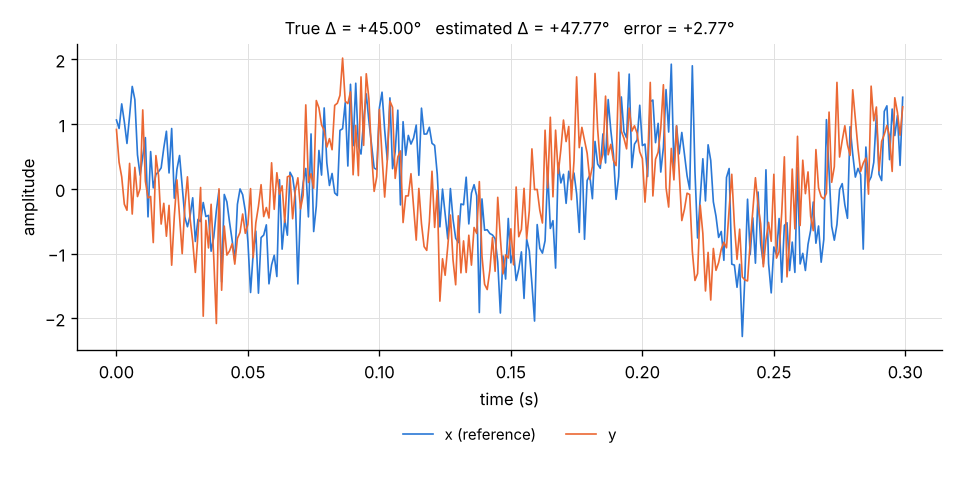
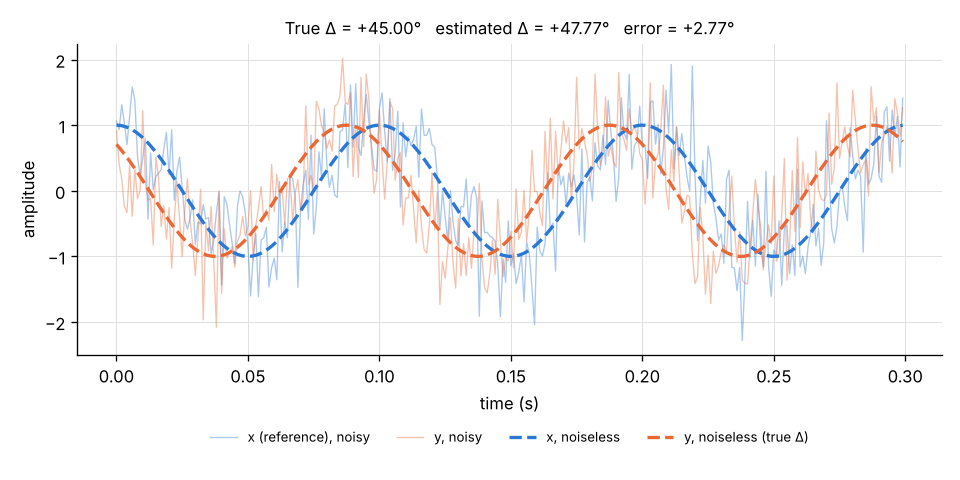
Address code review: overflow fix, mean removal, tests, docs, plot
- Estimate phase as wrap(angle(Z_y) - angle(Z_x)) instead of
  angle(Z_y * conj(Z_x)), which overflowed for very large signals and
  returned nan or wrong finite values. Regression tests added.
- Subtract each signal's record mean before projection so large DC
  offsets are no longer rejected as undefined; documented.
- Add tests for previously untested rejection paths, wrap_deg arrays,
  and exact noise-draw order; narrow the README coverage claim.
- Document the +/-180 boundary behaviour; fix the README plot note.
- Plot: overlay dashed noiseless signals; regenerated phase_demo.png.

Claude-Session: https://claude.ai/code/session_01MhUJCrXfypvmw1afCNMHFF

Changed region(s): [[0.0, 0.125, 0.9688, 0.6875], [0.0625, 0.7188, 1.0, 0.9375], [0.25, 0.9062, 0.375, 0.9375]]

diff --git a/test_phase_analysis.py b/test_phase_analysis.py
@@ -39,6 +39,14 @@ def test_wrap_deg_hard_coded(angle, expected):
     assert wrap_deg(angle) == expected
 
 
+def test_wrap_deg_array():
+    angles = np.array([-180.0, 180.0, 270.0, 0.0, 360.0, 190.0, -190.0, 540.0])
+    expected = np.array([180.0, 180.0, -90.0, 0.0, 0.0, -170.0, 170.0, 180.0])
+    out = wrap_deg(angles)
+    assert isinstance(out, np.ndarray)
+    assert np.array_equal(out, expected)
+
+
 @pytest.mark.parametrize("estimate, truth, expected", [(-179, 179, 2), (179, -179, -2)])
 def test_signed_circular_error(estimate, truth, expected):
     assert circular_error_deg(estimate, truth) == expected
@@ -63,6 +71,30 @@ def test_sign_independent_of_make_signals():
     assert abs(circular_error_deg(est, 90.0)) <= TOL_DEG
 
 
+@pytest.mark.parametrize("amplitude", [1e152, 1e160])
+@pytest.mark.parametrize("true_deg", [30.0, -120.0])
+def test_regression_large_amplitude_no_overflow(amplitude, true_deg):
+    # Regression (review #1): angle(z_y * conj(z_x)) overflowed, giving nan at
+    # 1e160 and wrong finite values (45, -135) at 1e152.
+    _, x, y = make_signals(F, FS, T, amplitude, true_deg, sigma=0.0)
+    est = estimate_phase_difference(x, y, F, FS)
+    assert abs(circular_error_deg(est, true_deg)) <= TOL_DEG
+
+
+@pytest.mark.parametrize("dc", [1e10, 1e11])
+def test_large_dc_offset_accepted_after_mean_removal(dc):
+    # Review #2: before mean removal these were rejected as "undefined".
+    # Tolerance is a rounding bound, not 1e-8: storing dc + cos and removing
+    # the mean perturbs each sample by up to ~1 ulp(dc), so |dZ| <= N*ulp and
+    # each phase moves by <= 2*ulp/A rad; the difference by <= 4*ulp/A rad.
+    t = np.arange(int(FS * T)) / FS
+    x = dc + A * np.cos(2 * np.pi * F * t)
+    y = dc + A * np.cos(2 * np.pi * F * t + np.deg2rad(45.0))
+    tol_deg = math.degrees(4 * np.spacing(dc) / A)
+    est = estimate_phase_difference(x, y, F, FS)
+    assert abs(circular_error_deg(est, 45.0)) <= tol_deg
+
+
 @pytest.mark.parametrize("a, b", [(270.0, -90.0), (190.0, -170.0), (180.0, -180.0)])
 def test_wrap_equivalent_inputs(a, b):
     est_a, est_b = noiseless_estimate(a), noiseless_estimate(b)
@@ -74,19 +106,30 @@ def test_wrap_equivalent_inputs(a, b):
 # ---------------------------------------------------------------- rejections
 
 
-def test_rejects_zero_signal():
+@pytest.mark.parametrize("side", ["x", "y"])
+def test_rejects_zero_signal(side):
+    _, sig, _ = make_signals(F, FS, T, A, 0.0, sigma=0.0)
+    args = (np.zeros_like(sig), sig) if side == "x" else (sig, np.zeros_like(sig))
+    with pytest.raises(ValueError, match=f"phase of {side} is undefined"):
+        estimate_phase_difference(*args, F, FS)
+
+
+def test_rejects_constant_signal():
+    # A pure DC signal has no component at f once its mean is removed.
     _, x, _ = make_signals(F, FS, T, A, 0.0, sigma=0.0)
-    with pytest.raises(ValueError, match="undefined"):
-        estimate_phase_difference(x, np.zeros_like(x), F, FS)
+    with pytest.raises(ValueError, match="phase of y is undefined"):
+        estimate_phase_difference(x, np.full_like(x, 5.0), F, FS)
 
 
-def test_rejects_signal_with_no_component_at_f():
+@pytest.mark.parametrize("side", ["x", "y"])
+def test_rejects_signal_with_no_component_at_f(side):
     # Scale-aware check: a pure 2f sinusoid projects to ~0 at f.
     t = np.arange(int(FS * T)) / FS
-    x = np.cos(2 * np.pi * F * t)
-    y = np.cos(2 * np.pi * 2 * F * t)
-    with pytest.raises(ValueError, match="undefined"):
-        estimate_phase_difference(x, y, F, FS)
+    at_f = np.cos(2 * np.pi * F * t)
+    at_2f = np.cos(2 * np.pi * 2 * F * t)
+    args = (at_2f, at_f) if side == "x" else (at_f, at_2f)
+    with pytest.raises(ValueError, match=f"phase of {side} is undefined"):
+        estimate_phase_difference(*args, F, FS)
 
 
 def test_rejects_non_integer_sample_count():
@@ -143,11 +186,36 @@ def test_rejects_bad_parameters(kwargs, match):
         make_signals(**params)
 
 
-def test_rejects_non_finite_signal_values():
+@pytest.mark.parametrize("side", ["x", "y"])
+@pytest.mark.parametrize("bad", [np.nan, np.inf])
+def test_rejects_non_finite_signal_values(side, bad):
     _, x, y = make_signals(F, FS, T, A, 0.0, sigma=0.0)
-    x[5] = np.nan
-    with pytest.raises(ValueError, match="non-finite"):
+    (x if side == "x" else y)[5] = bad
+    with pytest.raises(ValueError, match=f"{side} contains non-finite"):
         estimate_phase_difference(x, y, F, FS)
+
+
+def test_rejects_2d_signal():
+    _, x, y = make_signals(F, FS, T, A, 0.0, sigma=0.0)
+    with pytest.raises(ValueError, match="1-D"):
+        estimate_phase_difference(x.reshape(2, -1), y.reshape(2, -1), F, FS)
+
+
+@pytest.mark.parametrize(
+    "f, fs, match",
+    [
+        (0.0, FS, "0 < f < fs/2"),
+        (FS / 2, FS, "0 < f < fs/2"),
+        (F, 0.0, "fs must be > 0"),
+        (F, -FS, "fs must be > 0"),
+        (10.25, FS, "not an integer"),
+        (math.nan, FS, "finite"),
+    ],
+)
+def test_estimator_rejects_bad_frequency_or_fs_directly(f, fs, match):
+    _, x, y = make_signals(F, FS, T, A, 0.0, sigma=0.0)
+    with pytest.raises(ValueError, match=match):
+        estimate_phase_difference(x, y, f, fs)
 
 
 def test_rejects_mismatched_lengths():
@@ -171,9 +239,11 @@ def test_seeded_noisy_example_reproducible_and_broadly_accurate():
     t2, x2, y2 = make_signals(F, FS, T, A, true_deg, sigma=sigma, seed=0)
     # Reproducibility: exact equality, claimed only within the same environment.
     assert np.array_equal(x1, x2) and np.array_equal(y1, y2)
-    # Separate noise draws for x and y from one generator.
-    assert not np.array_equal(x1 - A * np.cos(2 * np.pi * F * t1),
-                              y1 - A * np.cos(2 * np.pi * F * t1 + np.deg2rad(true_deg)))
+    # Noise for x and y is the first and second draw from one generator.
+    rng = np.random.default_rng(0)
+    noise_x, noise_y = rng.standard_normal(t1.size), rng.standard_normal(t1.size)
+    assert np.array_equal(x1, A * np.cos(2 * np.pi * F * t1) + sigma * noise_x)
+    assert np.array_equal(y1, A * np.cos(2 * np.pi * F * t1 + np.deg2rad(true_deg)) + sigma * noise_y)
     est1 = estimate_phase_difference(x1, y1, F, FS)
     est2 = estimate_phase_difference(x2, y2, F, FS)
     assert est1 == est2

diff --git a/phase_analysis.py b/phase_analysis.py
@@ -1,9 +1,10 @@
 """Phase difference between two synthetic same-frequency sinusoids.
 
-Method: coherent complex projection at a known frequency f. Each signal is
-projected onto exp(-i 2 pi f t) over the whole record, giving one complex
-coefficient per signal; the angle of Z_y * conj(Z_x) is a single, record-wide
-phase-difference estimate. No time-resolved phase is computed.
+Method: coherent complex projection at a known frequency f. Each signal has
+its record mean subtracted and is then projected onto exp(-i 2 pi f t) over
+the whole record, giving one complex coefficient per signal; the wrapped
+difference angle(Z_y) - angle(Z_x) is a single, record-wide phase-difference
+estimate. No time-resolved phase is computed.
 
 Conventions
 -----------
@@ -21,8 +22,8 @@ import numpy as np
 
 # Chosen numerical guards (not universal error guarantees).
 # INTEGER_TOL: how close fs*T and f*N/fs must be to an integer to be accepted.
-# PROJECTION_RTOL: |Z| <= PROJECTION_RTOL * sum(|x|) is treated as "no
-# measurable component at f", so the phase is undefined and we raise.
+# PROJECTION_RTOL: |Z| <= PROJECTION_RTOL * sum(|x - mean(x)|) is treated as
+# "no measurable component at f", so the phase is undefined and we raise.
 INTEGER_TOL = 1e-9
 PROJECTION_RTOL = 1e-10
 
@@ -154,13 +155,17 @@ def make_signals(frequency, fs, duration, amplitude, phase_diff_deg, sigma, seed
 
 
 def _projection(name, signal, frequency, fs):
+    # Subtract the record mean first. Over an integer number of cycles the
+    # mean contributes nothing to Z in exact arithmetic; removing it keeps a
+    # large DC offset from dominating rounding error and the threshold below.
+    signal = signal - np.mean(signal)
     t = np.arange(signal.size) / fs
     z = np.sum(signal * np.exp(-2j * np.pi * frequency * t))
     scale = np.sum(np.abs(signal))
     if scale == 0.0 or abs(z) <= PROJECTION_RTOL * scale:
         raise ValueError(
             f"phase of {name} is undefined: projection at f is zero or negligible "
-            f"(|Z| = {abs(z):.3g}, sum|{name}| = {scale:.3g})"
+            f"(|Z| = {abs(z):.3g}, sum|{name} - mean| = {scale:.3g})"
         )
     return z
 
@@ -169,7 +174,8 @@ def estimate_phase_difference(x, y, frequency, fs):
     """Record-wide phase difference phi_y - phi_x (degrees, in (-180, 180]).
 
     Uses coherent complex projection at the known frequency over the whole
-    record, sampled at t[n] = n / fs. Requires an integer number of cycles.
+    record, sampled at t[n] = n / fs, after subtracting each signal's record
+    mean. Requires an integer number of cycles.
     """
     frequency = _finite_scalar("frequency", frequency)
     fs = _finite_scalar("fs", fs)
@@ -186,7 +192,9 @@ def estimate_phase_difference(x, y, frequency, fs):
 
     z_x = _projection("x", x, frequency, fs)
     z_y = _projection("y", y, frequency, fs)
-    return wrap_deg(np.rad2deg(np.angle(z_y * np.conj(z_x))))
+    # Difference of angles rather than angle(z_y * conj(z_x)): the product
+    # overflows for very large signals and can return nan or a wrong value.
+    return wrap_deg(np.rad2deg(np.angle(z_y)) - np.rad2deg(np.angle(z_x)))
 
 
 # ---------------------------------------------------------------- reporting
@@ -204,8 +212,8 @@ def predicted_std_deg(amplitude, sigma, n):
     return math.degrees(2.0 * sigma / (amplitude * math.sqrt(n)))
 
 
-def plot_signals(t, x, y, frequency, true_deg, est_deg, err_deg, path, n_cycles=3):
-    """Save a plot of the first few cycles of both signals."""
+def plot_signals(t, x, y, frequency, amplitude, true_deg, est_deg, err_deg, path, n_cycles=3):
+    """Save a plot of the first few cycles of both signals, with noiseless references."""
     import matplotlib
 
     matplotlib.use("Agg")
@@ -213,8 +221,13 @@ def plot_signals(t, x, y, frequency, true_deg, est_deg, err_deg, path, n_cycles=
 
     show = t < n_cycles / frequency
     fig, ax = plt.subplots(figsize=(8, 4), dpi=120)
-    ax.plot(t[show], x[show], color="#2a78d6", linewidth=1.0, label="x (reference)")
-    ax.plot(t[show], y[show], color="#eb6834", linewidth=1.0, label="y")
+    ts = t[show]
+    clean_x = amplitude * np.cos(2 * np.pi * frequency * ts)
+    clean_y = amplitude * np.cos(2 * np.pi * frequency * ts + np.deg2rad(true_deg))
+    ax.plot(ts, x[show], color="#2a78d6", linewidth=0.8, alpha=0.4, label="x (reference), noisy")
+    ax.plot(ts, y[show], color="#eb6834", linewidth=0.8, alpha=0.4, label="y, noisy")
+    ax.plot(ts, clean_x, color="#2a78d6", linewidth=2.0, linestyle="--", label="x, noiseless")
+    ax.plot(ts, clean_y, color="#eb6834", linewidth=2.0, linestyle="--", label="y, noiseless (true Δ)")
     ax.set_xlabel("time (s)")
     ax.set_ylabel("amplitude")
     ax.set_title(
@@ -224,7 +237,7 @@ def plot_signals(t, x, y, frequency, true_deg, est_deg, err_deg, path, n_cycles=
     ax.grid(True, color="#e0e0e0", linewidth=0.6)
     for side in ("top", "right"):
         ax.spines[side].set_visible(False)
-    ax.legend(loc="upper center", bbox_to_anchor=(0.5, -0.2), ncol=2, frameon=False, fontsize=9)
+    ax.legend(loc="upper center", bbox_to_anchor=(0.5, -0.2), ncol=4, frameon=False, fontsize=8)
     fig.tight_layout()
     fig.savefig(path)
     plt.close(fig)
@@ -245,7 +258,7 @@ def main(path="phase_demo.png"):
     print(f"SNR = A^2 / (2 sigma^2):           {snr(p['amplitude'], p['sigma']):.3f}")
     print(f"Small-error approx. std of est.:   {predicted_std_deg(p['amplitude'], p['sigma'], t.size):.3f} deg")
 
-    plot_signals(t, x, y, p["frequency"], true_wrapped, est, err, path)
+    plot_signals(t, x, y, p["frequency"], p["amplitude"], true_wrapped, est, err, path)
     print(f"Plot written to {path}")
 
 

diff --git a/README.md b/README.md
@@ -12,17 +12,24 @@ compared with the known value, and plotted. Synthetic data only.
 | `phase_analysis.py` | Signal generation, phase-difference estimate, demonstration and plot |
 | `test_phase_analysis.py` | Automated checks (pytest) |
 | `requirements.txt` | Exact package versions frozen from the project `.venv` |
-| `phase_demo.png` | Generated by the demonstration; not committed |
+| `phase_demo.png` | Output of the default demonstration, committed for review |
 
 ## Method: coherent complex projection at a known frequency
 
 - Sample times: `t[n] = n / fs`, `n = 0, ..., N-1` (endpoint `T` excluded).
 - Signals: `x = A cos(2πft) + σ·noise_x`, `y = A cos(2πft + Δ) + σ·noise_y`.
   One random generator per call; `noise_x` is drawn first, then `noise_y`.
-- Projection: `Z_x = Σ x[n] exp(-i2πf t[n])` (likewise `Z_y`), i.e. the
-  record's Fourier coefficient at the known frequency `f`.
-- Estimate: `Δ_est = angle(Z_y · conj(Z_x))`. This is one record-wide phase
-  difference; no time-resolved phase is computed.
+- Mean removal: each signal's record mean is subtracted before projection.
+  Over an integer number of cycles the mean contributes nothing to `Z` in
+  exact arithmetic, so this does not change the estimate for a sinusoid; it
+  keeps a large DC offset from dominating rounding error and the
+  undefined-phase threshold.
+- Projection: `Z_x = Σ (x[n] − mean(x)) exp(-i2πf t[n])` (likewise `Z_y`),
+  i.e. the record's Fourier coefficient at the known frequency `f`.
+- Estimate: `Δ_est = wrap(angle(Z_y) − angle(Z_x))`. This equals
+  `angle(Z_y · conj(Z_x))` mathematically but avoids overflow of the product
+  for very large signals. It is one record-wide phase difference; no
+  time-resolved phase is computed.
 - Sign: `Δ = φ_y − φ_x`; positive means **y leads x**. Angles are in degrees,
   wrapped to (−180, 180].
 - Signed error: `wrap(Δ_est − Δ_true)`, a circular difference
@@ -37,12 +44,21 @@ compared with the known value, and plotted. Synthetic data only.
 - `0 < f < fs/2`; `K = f·N/fs` within 1e-9 of an integer `k`, with `1 ≤ k`
   and `2k < N`.
 - `x`, `y`: real, 1-D, finite, equal length.
-- Undefined phase: if `Σ|x| = 0` or `|Z_x| ≤ 1e-10 · Σ|x|` (same for `y`).
+- Undefined phase: with `x₀ = x − mean(x)`, if `Σ|x₀| = 0` or
+  `|Z_x| ≤ 1e-10 · Σ|x₀|` (same for `y`). A constant (pure DC) signal is
+  therefore rejected.
 
 The 1e-9 integer tolerance and 1e-10 relative projection threshold are
 chosen numerical guards, not universal error guarantees. They do not
 establish adequate SNR: a noise-only signal passes the projection check and
-yields an essentially random phase.
+yields an essentially random phase. Because the threshold is relative to the
+mean-removed signal, a large DC offset no longer causes rejection, but very
+large offsets still cost precision: storing `DC + signal` in float64 limits
+the signal's resolution to about one ulp of `DC`.
+
+Estimates near ±180° may land on either side of the boundary by rounding
+(true +180° can return −179.99999999999991). Compare such values with the
+circular error, not by raw value.
 
 ## Tests
 
@@ -51,11 +67,23 @@ yields an essentially random phase.
   (`x = cos`, `y = −sin` → +90°); wrap-equivalent inputs (270/−90,
   190/−170, 180/−180). This tolerance applies to these cases, not to every
   accepted input.
-- `wrap_deg` and signed circular error against hard-coded values.
-- Rejection tests for each input requirement above.
+- `wrap_deg` (scalar and array) and signed circular error against
+  hard-coded values. `wrap_deg` of a non-finite value returns `nan`; this is
+  not tested.
+- Regression tests for overflow at very large amplitude (1e152, 1e160), which
+  previously returned `nan` or wrong finite values.
+- Large DC offsets (1e10, 1e11) are accepted and accurate within a derived
+  rounding bound of `4·ulp(DC)/A` rad.
+- Rejection tests: zero, constant, and no-component-at-f signals (x and y
+  sides); non-finite values (x and y); 2-D input; mismatched lengths; complex
+  input; N < 3; non-integer N or K; K rounding to 0 or to the Nyquist count;
+  f out of range, fs ≤ 0 and non-finite parameters (through both
+  `make_signals` and the estimator for f and fs); A ≤ 0; σ < 0.
 - Seeded noisy example (σ = 0.5, seed 0): exact reproducibility within the
-  same environment, and error below 5 × the small-error approximate std
-  (≈ 6.4°). That threshold comes from an approximation, not a guaranteed bound.
+  same environment; the noise for x and y is checked to be the first and
+  second draws of `default_rng(0)`; error below 5 × the small-error
+  approximate std (≈ 6.4°). That threshold comes from an approximation, not
+  a guaranteed bound, and one seed cannot detect a bias of a few degrees.
 
 ## Running
 
@@ -81,4 +109,8 @@ matplotlib 3.11.2, pytest 9.1.1. Full list in `requirements.txt`.
   phase relationship is constant across the record.
 - Requires an integer number of cycles in the record; no windowing.
 - Noise model: independent white Gaussian noise, equal σ in both signals.
-- No Monte Carlo characterization of noise performance yet (deferred).
+- No Monte Carlo characterization of noise performance or bias yet
+  (deferred). The default seed's +2.77° error is about 2.2 × the
+  approximate std.
+- The plot shows three noisy cycles with the noiseless signals overlaid
+  (dashed) so the offset is visible; it is illustrative only.
